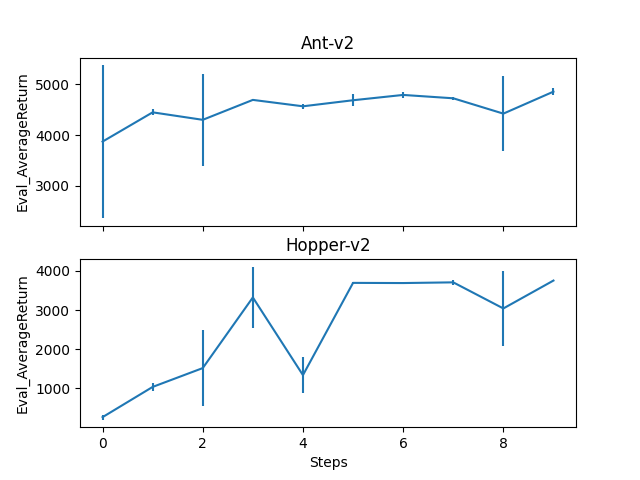
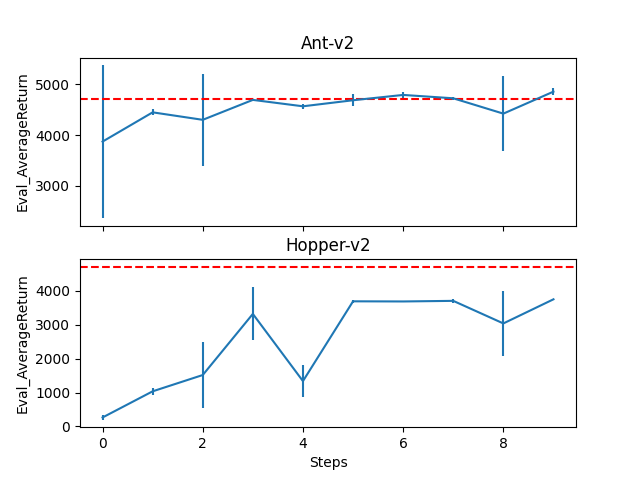
small modification

diff --git a/submit/hw1/cs285/scripts/plot_tensorboard.py b/submit/hw1/cs285/scripts/plot_tensorboard.py
@@ -12,6 +12,8 @@ def draw_error_bar(tensorboard_paths, names):
     for i, (tensorboard_path, name) in enumerate(zip(tensorboard_paths, names)):
         ea = event_accumulator.EventAccumulator(tensorboard_path)
         ea.Reload()
+        if i == 0:
+            Expert_AverageReturn = ea.scalars.Items('Train_AverageReturn')[0].value
         mean_val = ea.scalars.Items('Eval_AverageReturn')
         std_val = ea.scalars.Items('Eval_StdReturn')
         assert len(mean_val) == len(std_val), 'should be the same steps'
@@ -20,6 +22,7 @@ def draw_error_bar(tensorboard_paths, names):
                     [val.value for val in std_val])
         ax[i].set_title(name)
         ax[i].set_ylabel('Eval_AverageReturn')
+        ax[i].axhline(Expert_AverageReturn, color='r', linestyle='--')
     ax[-1].set_xlabel('Steps')
     fig.savefig('image/Task_Do_Dagger.png')
 
